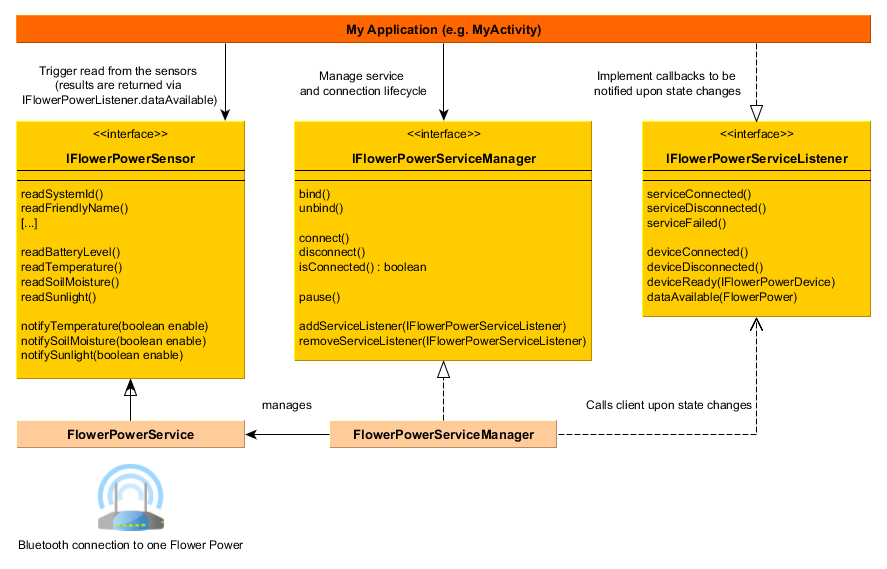
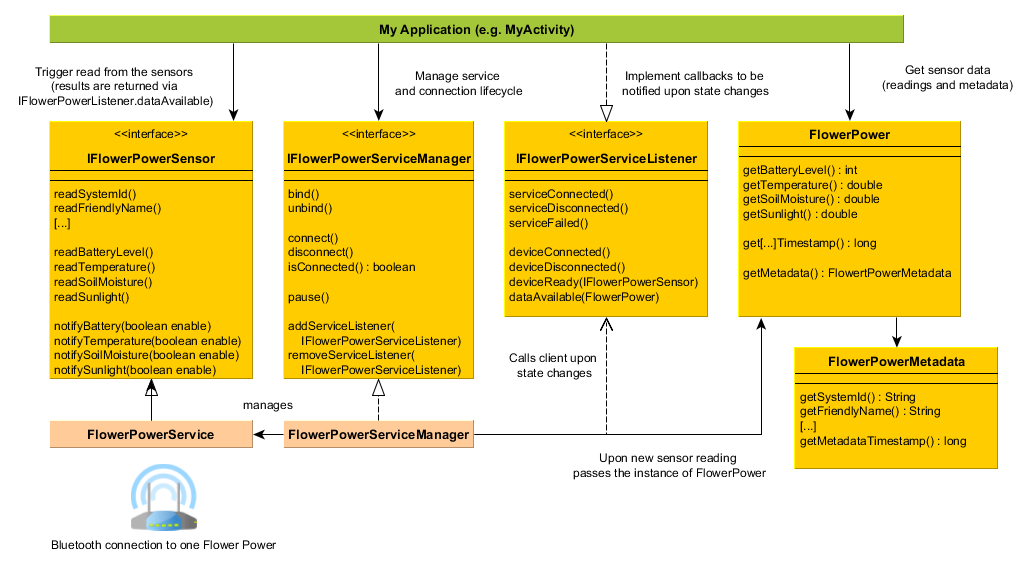
Updated homepage and graphics

diff --git a/FlowerPower4Android/misc/www/class_diagram.php b/FlowerPower4Android/misc/www/class_diagram.php
@@ -7,7 +7,23 @@
 		<td valign="top" width="700">
 		
 			<h2>Class Diagram</h2>
-			A class digram depicts the 
+			This class digram depicts the most important classes to be used by developers.
+			<p>
+			<img src="images/class_diagram.png">
+			<p>
+			As you can see, there are 3 interfaces (<emph>IFlowerPowerSensor</emph>, <emph>IFlowerPowerServiceManager</emph>, <emph>IFlowerPowerServiceListener</emph>) with which a client application interacts as well as 2 classes realizing the data model (<emph>FlowerPower</emph>, <emph>FlowerPowerMetadata</emph>).
+			All of the other classes are hidden for the developer and are only of interest to those wanting to extend the library itself.
+			<p>
+			<b>IFlowerPowerServiceManager</b>: This class handles the management of individual flower power instances. You mainly use it to bind (and unbind) the communication service and to connect (and disconnect) a flower power sensor. It provides method which must be called upon specific lifecycle stages of your application (see <a href="life_cycle.php">Lifecycle</a>).
+			Moreover, you need to register your application as an <b>IFlowerPowerServiceListener</b> with the manager. As such a listener, you'll receive lifecycle events, such as when the communication service is ready (or not), when the flower power sensor is connected (or disconnects) and most importantly when data is available.
+			In order to receive such events, your application needs provide implementations for all those methods (see the example, that ships with the distribution).
+			<p>
+			Once a Flower Power sensor is connected, you probably want to read some values or be notified periodically about updated values. The <b>IFlowerPowerSensor</b> is the be used for that. It provides methods for triggering reads of all kinds of values and for enabling (and disabling) notifications (i.e. periodic reads).
+			Note: all these methods return noting, because reads and notifications are executed asynchronously. Once a result is available, it is passed via the IFlowerPowerListener callback (see above) to your application.
+			<p>
+			This <emph>dataAvailable</emph> callback carries an instance of the <b>FlowerPower</b> data model. This data model provides methods to access all sensor readings as well as timestamps. Note: the model is reused throughout the whole service lifetime, so if e.g. you read the sensor's friendly name once, you do not need to read it again, because it is still set in the Flower Power instance.
+			<p>
+			Finally, the <b>FlowerPowerService</b> realizes most of the Bluetooth LE handling. It connects via Bluetooth to your Flower Power, it offers methods to read characteristics and to handle notifications. Internally, it is realized as a job queue, so commands are executed sequentially in order not to overwrite previously issues commands. But these internals are only of interest to those who want to work on the library's internals.
 		</td>
 		<td valign="top" width="300">
 			<?

diff --git a/FlowerPower4Android/misc/www/index.php b/FlowerPower4Android/misc/www/index.php
@@ -10,6 +10,11 @@
 			<ul>
 				<li> Easy to use framework to control the Flower Power </li>
 				<li> Framework is 100% pure Java and easily extendable </li>
+				<li>Transparent access to sensor readings (without having to know Bluetooth LE specifics)
+					<ul>
+						<li>SystemId, ModelNr, SerialNr, Firmware/Hardware/Software Revision, Manufacturer Name, Certificate Data, PnP-Id, Friendly Name, Color</li>
+	  					<li>Readings AND Notifications for Temperature, Soil Moisture, Sunlight, Battery Level</li>
+					</ul>
 				<li> More to come :-) </li>
 			</ul>
 			
@@ -19,6 +24,12 @@
 			<i>Flower Power for Android</i> is still beta and in an early stage of development, but it's open: comments, bug reports and contributions are warmly welcome ! 
 			<p>
 			Credits go to <i>Sandeep Mistry</i> (for a pioneering <a href="https://github.com/sandeepmistry/node-flower-power" target="_blank">JavaScript library</a>), <i>Moritz (for the first publicly available <a href="https://play.google.com/store/apps/details?id=de.cloudffm.flowerpowerradio&hl=de" target="_blank">Android proof-of-concept</a>)</i> and <i>Jerome</i> (for information and motivation).
+			<p>
+			<center>
+				<img src="images/screenshot.png" alt="Screenshot of the Flower Power for Android Example App">
+				<br>
+				Screenshot of the Example App for the <i>Flower Power for Android Library</i>
+			</center>
 		</td>
 		<td valign="top" width="300">
 			<?

diff --git a/FlowerPower4Android/misc/www/download.php b/FlowerPower4Android/misc/www/download.php
@@ -1,0 +1,33 @@
+<?
+	require("include/header.php");
+?>
+
+<table border="0" width="1000">
+	<tr>
+		<td valign="top" width="700">
+		
+			<h2>Download</h2>
+			This site does not currently host a ready-to-use library. But we're working on that.
+			Up to now, please use the official <i>Flower Power for Android</i> Github page at
+			<p>
+			<b><a href="https://github.com/MahatmaX/flowerpower4android" target="_blank">https://github.com/MahatmaX/flowerpower4android</a></b>
+			<p>
+			<h2>Release Notes</h2>
+			The first public release is a beta release and will contain bugs. You use it at your own risk.
+			<p>
+			It is currently not really a library. It ships as an example application which you can use as a basis for your own apps.
+			BUT, with ongoing development, the API will surely be changed when adding new features or refactoring old ones. Please keep that in mind.
+			<p>
+			We currently havn't decided about a licence under which this library will be released, but it will probably be GPL or Apache.
+		</td>
+		<td valign="top" width="300">
+			<?
+				require("include/navigation.php");
+			?>
+		</td>
+	</tr>
+</table>
+
+<?
+	require("include/footer.php");
+?>

diff --git a/FlowerPower4Android/misc/www/include/navigation.php b/FlowerPower4Android/misc/www/include/navigation.php
@@ -24,17 +24,12 @@
 				<table>
 					<tr>
 						<td>
-							<a href="download.php">Download</a><br>
+							<a href="download.php">Download &amp; Release Notes</a><br>
 						</td>
 					</tr>
 					<tr>
 						<td>
-							<a href="release_notes.php">Release Notes</a><br>
-						</td>
-					</tr>
-					<tr>
-						<td>
-							<a href="https://github.com/MahatmaX/FlowerPower4Android/issues">Issue Tracker</a>
+							<a href="https://github.com/MahatmaX/flowerpower4android/issues" target="_blank">Issue Tracker</a>
 						</td>
 					</tr>
 				</table>
@@ -53,19 +48,21 @@
 				<table>
 					<tr>
 						<td>
-							<a href="tutorial.php">Tutorial</a>
+							<a href="#">Tutorial</a> <small>(soon to come)</small>
 						</td>
 					</tr>
 					<tr>
 						<td>
-							<a href="faq.php">FAQ</a>
+							<a href="#">FAQ</a> <small>(nothing asked yet)</small>
 						</td>
 					</tr>
+					<!--
 					<tr>
 						<td>
 							<a href="javadoc/index.html" target="_blank">API Documentation</a> <small>(JavaDoc)</small>
 						</td>
 					</tr>
+					-->
 					<tr>
 						<td>
 							<a href="class_diagram.php">Class Diagram</a>

diff --git a/FlowerPower4Android/misc/www/include/header.php b/FlowerPower4Android/misc/www/include/header.php
@@ -26,7 +26,7 @@
 		<table width="1000" border="0" cellspacing="10">
 			<tr>
 				<td>
-					<img src="images/logo.png" alt="logo" width="100" height="125">
+					<a href="index.php"><img src="images/logo.png" alt="logo" width="100" height="125" border="0"></a>
 				</td>
 				<td>
 					<h2>Flower Power for Android</h2> 
